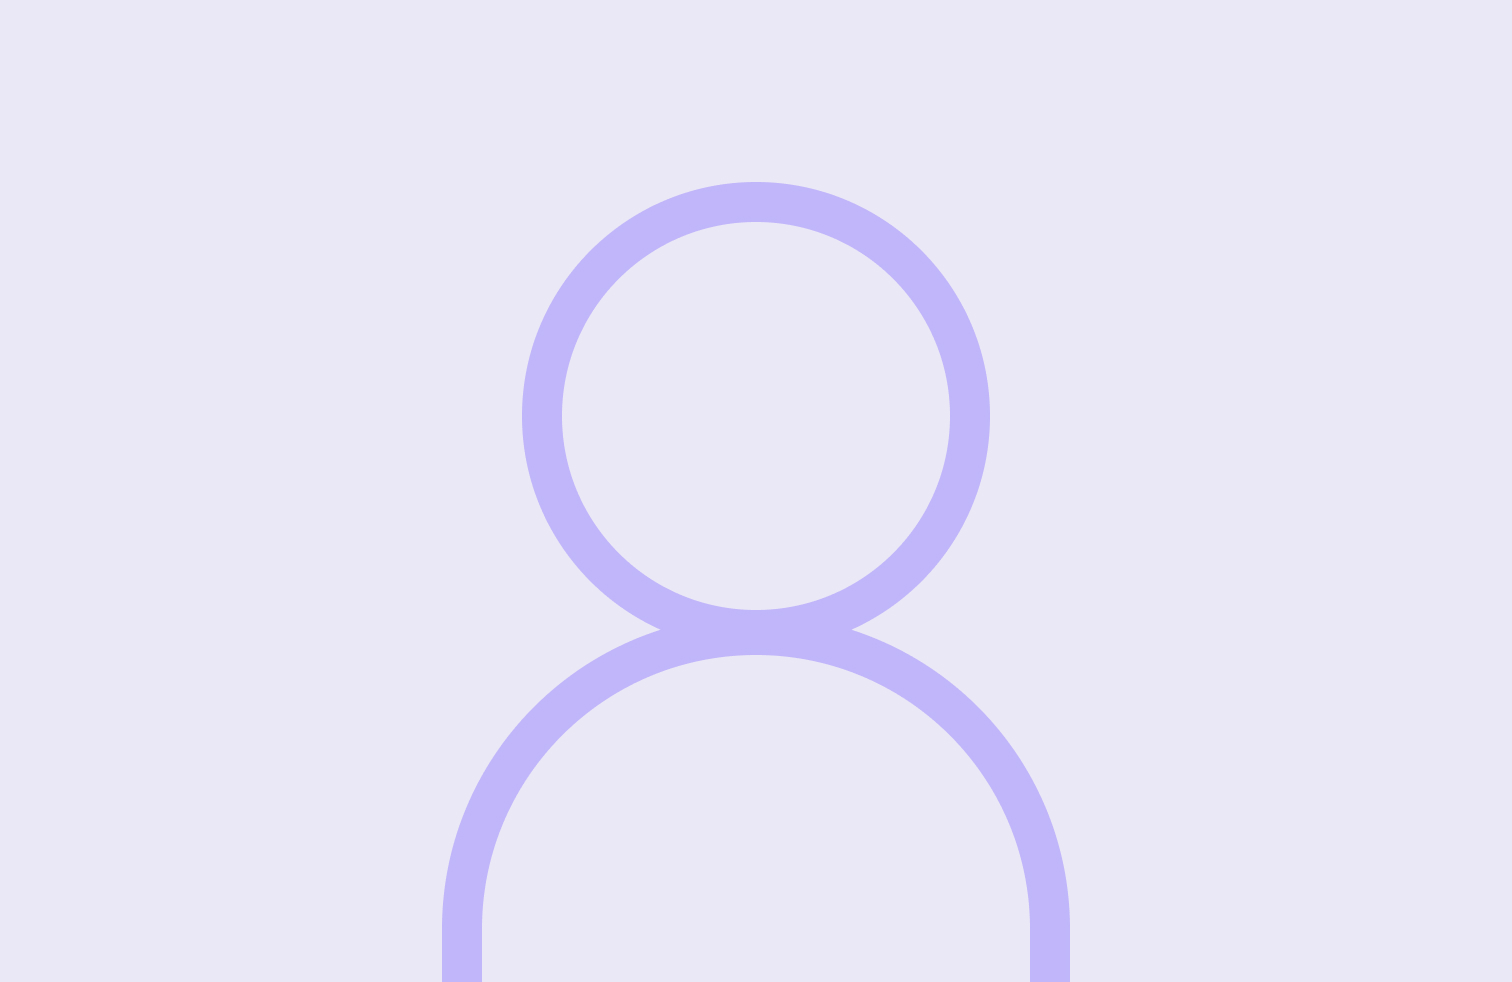
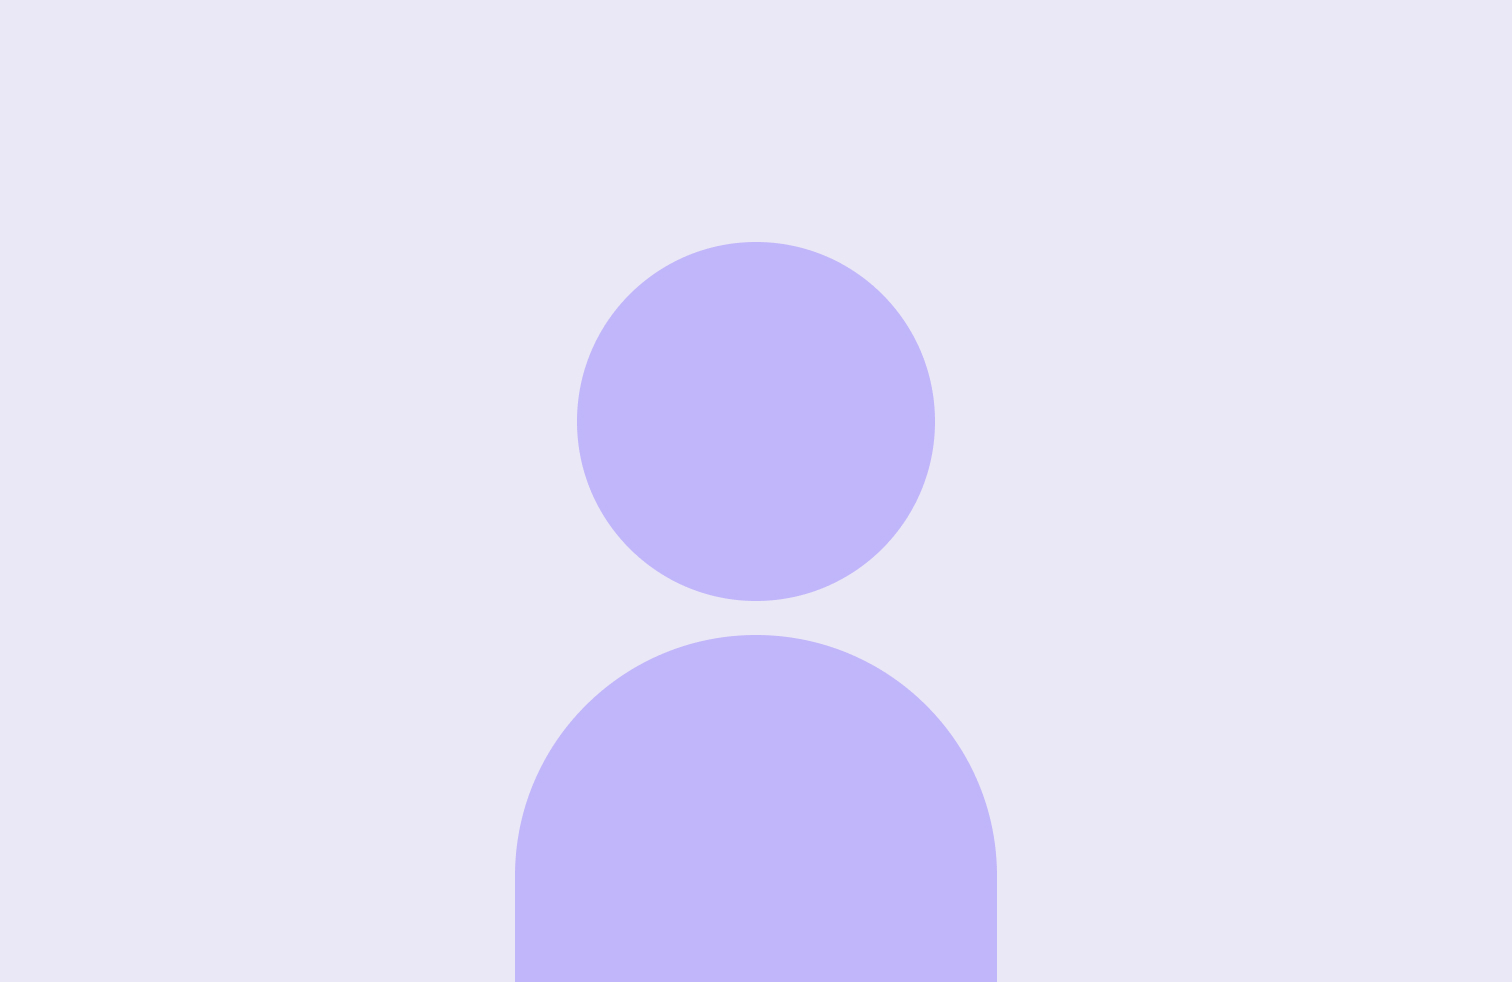
changed profile img

Changed region(s): [[0.2798, 0.1833, 0.7149, 1.0]]

diff --git a/js/home.js b/js/home.js
@@ -52,7 +52,7 @@ const writeListings = (list, outElement) => {
     const profileImg =
       content.seller.avatar === "" || content.seller.avatar === null
         ? [
-            "https://upload.wikimedia.org/wikipedia/commons/4/48/No_image_%28male%29.svg",
+            "https://github.com/marthebull/semester-project-2022/blob/dev-js/images/profile-placeholder.jpg?raw=true",
           ]
         : content.seller.avatar;
 
